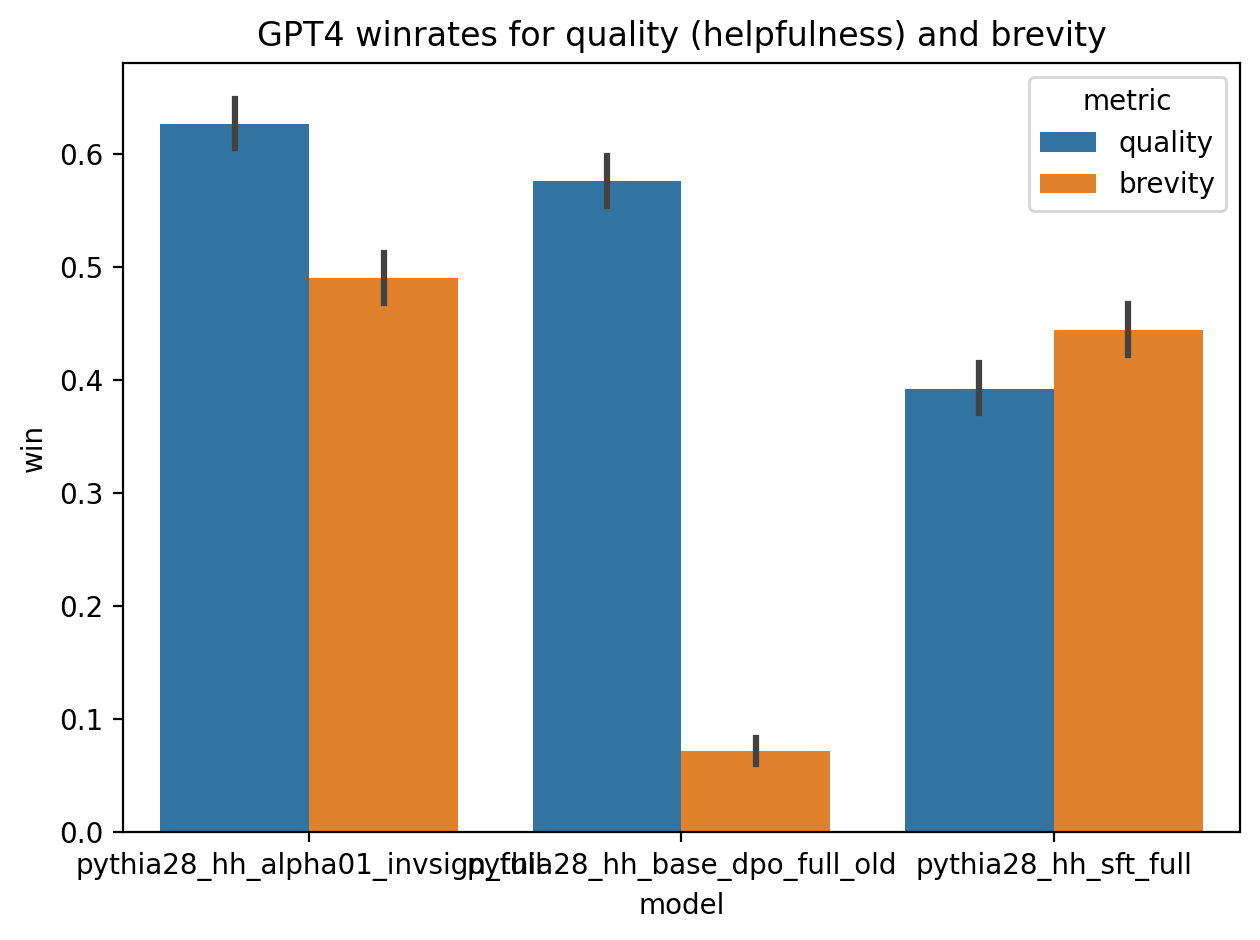
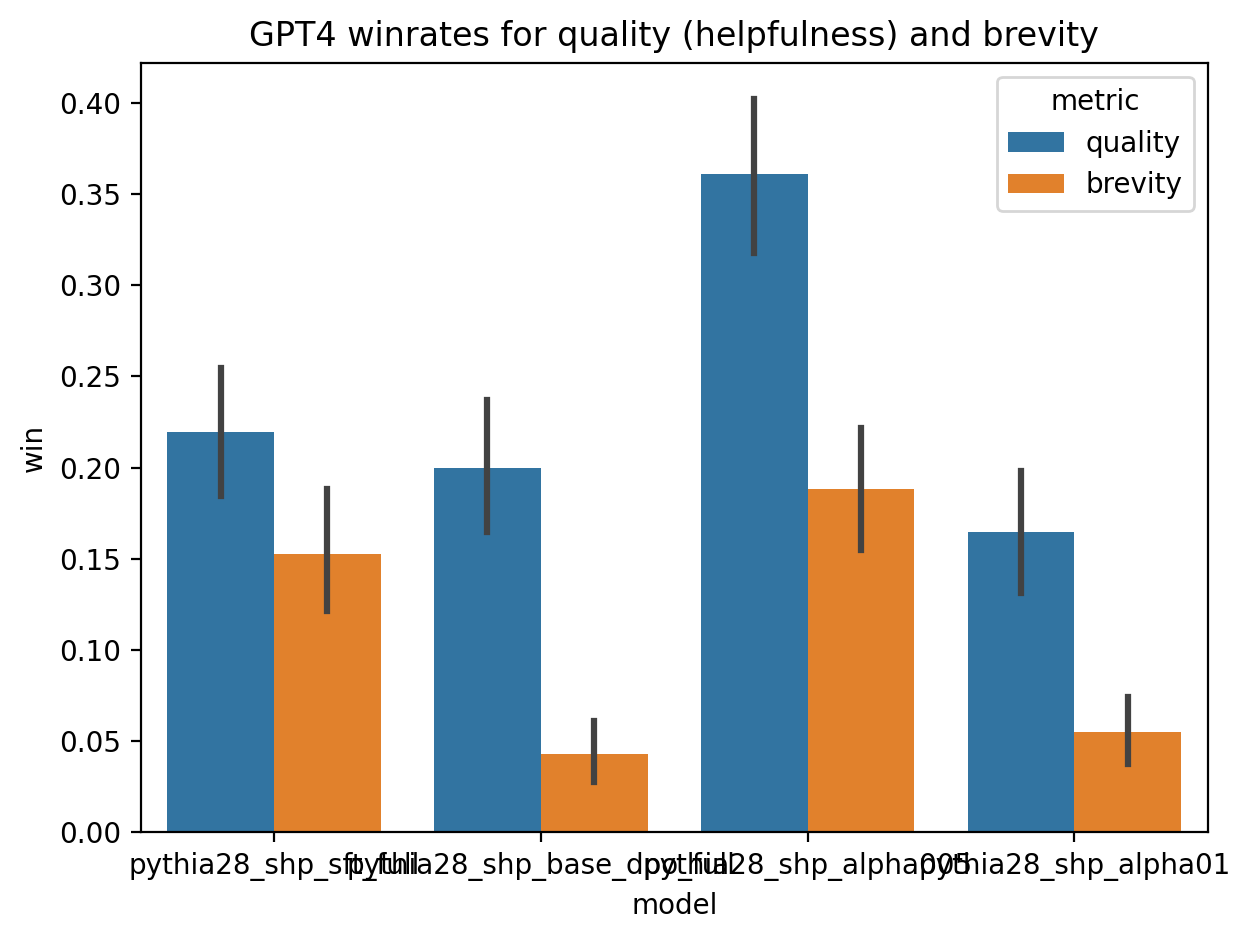
Update winrate code

diff --git a/evals/winrates.py b/evals/winrates.py
@@ -14,14 +14,21 @@ from throttler import submit_jobs
 
 
 def load_prompt(pfile, pdir):
-    """
-    Loads prompt from file.
-    """
+    """ Loads prompt from file.  """
     with open(os.path.join(pdir, pfile)) as t:
         prompt = "\n".join(map(str.strip, t.readlines()))
 
     print(f"loaded {pfile}")
     return prompt
+
+
+def shuffle(d):
+    """
+    Shuffle dataset.
+    """
+    k = list(d.keys())
+    random.shuffle(k)
+    return {key: d[key] for key in k}
 
 
 def load_hh():
@@ -37,6 +44,22 @@ def load_hh():
         reformatted[entry["chosen"][:s]] = entry["chosen"][s + 1:]
         i += 1
     print(f"loaded {i} examples from HH test split")
+    return reformatted
+
+
+def load_shp():
+    """
+    Loads SHP dataset test split.
+    """
+    dataset = load_dataset("stanfordnlp/SHP", split="test")
+    reformatted = {}
+    i = 0
+    for entry in tqdm(dataset):
+        key = "A" if int(entry["labels"]) == 0 else "B"
+        prompt = f"\n\nHuman: {entry['history']}\n\nAssistant:"
+        reformatted[prompt] = entry[f"human_ref_{key}"]
+        i += 1
+    print(f"loaded {i} examples from SHP test split")
     return reformatted
 
 
@@ -64,7 +87,7 @@ def load_samples(sample_dir, to_process=None):
     return sampled
 
 
-def batch_judge(batch, system, template, key, model_wins, cache_file, gpt_model, seed=None):
+def batch_judge(batch, system, template, key, model_wins, cache_file, gpt_model, seed=None, use_lab_key=False):
     """
     Batch critic judge given quality/brevity template and batch of completions.
     template and key control the quality/brevity prompt to use.
@@ -80,7 +103,13 @@ def batch_judge(batch, system, template, key, model_wins, cache_file, gpt_model,
         )
         for a, b, prompt, model in batch
     ]
-    responses = submit_jobs(requests, cache_file=cache_file)
+
+
+    api_key = os.getenv("OPENAI_API_KEY")
+    if use_lab_key:
+        api_key = os.getenv("LAB_OPENAI_API_KEY", api_key)
+
+    responses = submit_jobs(requests, cache_file=cache_file, api_key=api_key)
     for (*_, model), judgement in responses.items():
         model_wins[model][key].append(judgement)
 
@@ -95,16 +124,17 @@ def winrates(
     cache_file,
     batch_size,
     seed,
-    stop
+    stop,
+    use_lab_key
 ):
     """
     Gets winrates between truth and sampled given critic prompts.
     """
     def do_batch(batch, pbar, model_wins, cache_file, seed):
-        batch_judge(batch, system, quality, "quality", model_wins, cache_file, gpt_model, seed)
+        batch_judge(batch, system, quality, "quality", model_wins, cache_file, gpt_model, seed, use_lab_key)
         pbar.update(batch_size // 2)
-    
-        batch_judge(batch, system, brevity, "brevity", model_wins, cache_file, gpt_model, seed)
+
+        batch_judge(batch, system, brevity, "brevity", model_wins, cache_file, gpt_model, seed, use_lab_key)
         pbar.update(batch_size // 2)
 
     model_wins = {}
@@ -128,12 +158,12 @@ def winrates(
             do_batch(batch, pbar, model_wins, cache_file, seed)
             batch = []
             i += batch_size
-            if stop is not None and i > stop:
+            if stop is not None and i > stop * len(sampled):
                 break
-    
-    if len(batch) > 0 and stop is not None and i <= stop:
+
+    if len(batch) > 0 and stop is not None and i <= stop * len(sampled):
         do_batch(batch, pbar, model_wins, cache_file, seed)
-    
+
     return model_wins
 
 
@@ -157,7 +187,7 @@ def analyze(model_wins):
             for score in scores:
                 flat.append(dict(model=model, metric=key, win=int(score)))
     flat = pd.DataFrame(flat)
-    
+
     print(flat)
     sns.barplot(flat, x="model", y="win", errorbar="ci", hue="metric")
     plt.title("GPT4 winrates for quality (helpfulness) and brevity")
@@ -185,8 +215,8 @@ def analyze(model_wins):
     # Plotting
     plt.figure(figsize=(10, 6))
     for _, row in merged_stats.iterrows():
-        plt.errorbar(x=row['mean_brevity'], y=row['mean_quality'], 
-                    xerr=row['ci_90_brevity'], yerr=row['ci_90_quality'], 
+        plt.errorbar(x=row['mean_brevity'], y=row['mean_quality'],
+                    xerr=row['ci_90_brevity'], yerr=row['ci_90_quality'],
                     fmt='o', capsize=5, label=row['model'])
 
     plt.xlabel('Mean Brevity Score')
@@ -203,6 +233,11 @@ if __name__ == "__main__":
         "--model",
         default="gpt-4",
         help="gpt critic model to use"
+    )
+    parser.add_argument(
+        "--dataset",
+        default="hh",
+        help="dataset to use (hh default)"
     )
     parser.add_argument(
         "--sample_dir",
@@ -245,6 +280,12 @@ if __name__ == "__main__":
         type=int,
         help="stop at example i"
     )
+    parser.add_argument(
+        "--lab_key",
+        action="store_true",
+        help="use LAB_OPENAI_API_KEY instead of OPENAI_API_KEY"
+    )
+
     args = parser.parse_args()
     random.seed(args.seed)
     logging.basicConfig(level=args.log_level)
@@ -254,17 +295,21 @@ if __name__ == "__main__":
     system = load_prompt("system.prompt", args.prompt_dir)
 
     sampled = load_samples(args.sample_dir, args.sample_files)
-    truth = load_hh()
-    model_wins = winrates(
-        truth,
-        sampled,
-        quality,
-        brevity,
-        system,
-        args.model,
-        args.cache,
-        args.batch_size,
-        args.seed,
-        args.stop
+    truth = locals()[f"load_{args.dataset}"]()
+    truth = shuffle(truth)
+
+    analyze(
+        winrates(
+            truth,
+            sampled,
+            quality,
+            brevity,
+            system,
+            args.model,
+            args.cache,
+            args.batch_size,
+            args.seed,
+            args.stop,
+            args.lab_key
+        )
     )
-    analyze(model_wins)
